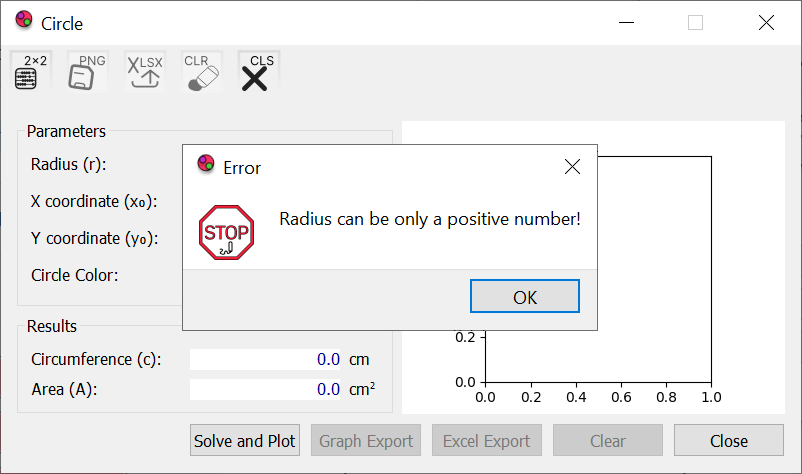
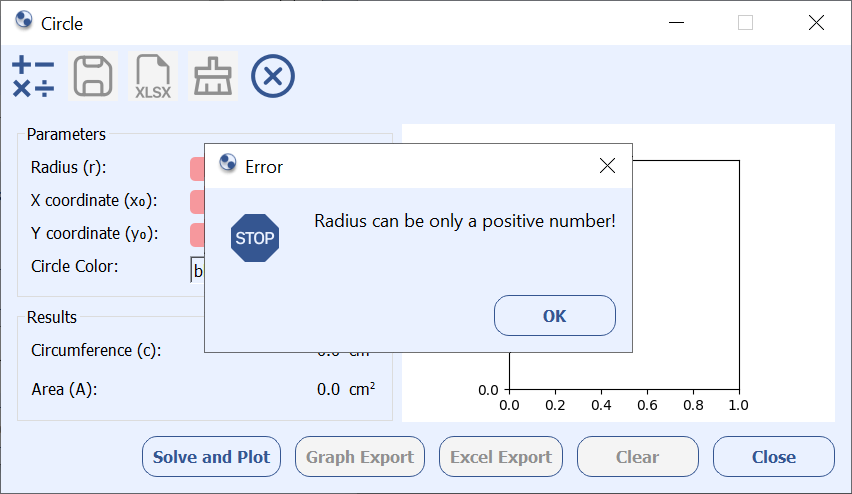
New Design

diff --git a/Ellipse.py b/Ellipse.py
@@ -87,7 +87,7 @@ class WindowEllipse(QWidget):
         toolbar.setIconSize(QtCore.QSize(50, 50))
 
         # Set the window size
-        self.setFixedSize(800, 458)
+        self.setFixedSize(850, 488)
 
         hbox1 = QHBoxLayout()
         
@@ -234,7 +234,6 @@ class WindowEllipse(QWidget):
         layout_res.addWidget(self.label_perimeter,0,0)
 
         self.label_res_perimeter = QLabel('0.0')
-        self.label_res_perimeter.setStyleSheet("background-color : white; color : darkblue")
         self.label_res_perimeter.setAlignment(QtCore.Qt.AlignRight)
         self.label_res_perimeter.setFixedWidth(150)
         layout_res.addWidget(self.label_res_perimeter,0,1)
@@ -252,7 +251,6 @@ class WindowEllipse(QWidget):
 
         self.label_res_area = QLabel('0.0')
         # self.label_res_area.setFont(QFont('Arial', 12))
-        self.label_res_area.setStyleSheet("background-color : white; color : darkblue")
         self.label_res_area.setAlignment(QtCore.Qt.AlignRight)
         self.label_res_area.setFixedWidth(150)
         layout_res.addWidget(self.label_res_area,1,1)
@@ -355,6 +353,12 @@ class WindowEllipse(QWidget):
             ellipse_plot.draw()
 
             self.calculate_ellipse()
+            self.clearAction.setEnabled(True)
+            self.buttonClear.setEnabled(True)
+            self.exportPictAction.setEnabled(True)
+            self.buttonPicture.setEnabled(True)
+            self.exportXlsxAction.setEnabled(True)
+            self.buttonExport.setEnabled(True)
 
     def calculate_ellipse(self):
 

diff --git a/Circle.py b/Circle.py
@@ -90,7 +90,7 @@ class WindowCircle(QWidget):
         toolbar.setIconSize(QtCore.QSize(50, 50))
 
         # Set the window size
-        self.setFixedSize(800, 428)
+        self.setFixedSize(850, 448)
 
         hbox1 = QHBoxLayout()
         
@@ -220,7 +220,6 @@ class WindowCircle(QWidget):
         layout_res.addWidget(self.label_perimeter,0,0)
 
         self.label_res_perimeter = QLabel('0.0')
-        self.label_res_perimeter.setStyleSheet("background-color : white; color : darkblue")
         self.label_res_perimeter.setAlignment(QtCore.Qt.AlignRight)
         self.label_res_perimeter.setFixedWidth(150)
         layout_res.addWidget(self.label_res_perimeter,0,1)
@@ -237,7 +236,6 @@ class WindowCircle(QWidget):
         layout_res.addWidget(self.label_area,1,0)
 
         self.label_res_area = QLabel('0.0')
-        self.label_res_area.setStyleSheet("background-color : white; color : darkblue")
         self.label_res_area.setAlignment(QtCore.Qt.AlignRight)
         self.label_res_area.setFixedWidth(150)
         layout_res.addWidget(self.label_res_area,1,1)

diff --git a/Sphere.py b/Sphere.py
@@ -79,7 +79,7 @@ class WindowSphere(QWidget):
         toolbar = QToolBar()
         toolbar.setIconSize(QtCore.QSize(50, 50))
 
-        self.setFixedSize(800, 458)
+        self.setFixedSize(850, 488)
 
         hbox1 = QHBoxLayout()
         
@@ -228,7 +228,6 @@ class WindowSphere(QWidget):
         layout_res.addWidget(self.label_volume,0,0)
 
         self.label_res_volume = QLabel('0.0')
-        self.label_res_volume.setStyleSheet("background-color : white; color : darkblue")
         self.label_res_volume.setAlignment(QtCore.Qt.AlignRight)
         self.label_res_volume.setFixedWidth(150)
         layout_res.addWidget(self.label_res_volume,0,1)
@@ -245,7 +244,6 @@ class WindowSphere(QWidget):
         layout_res.addWidget(self.label_surface,1,0)
 
         self.label_res_surface = QLabel('0.0')
-        self.label_res_surface.setStyleSheet("background-color : white; color : darkblue")
         self.label_res_surface.setAlignment(QtCore.Qt.AlignRight)
         self.label_res_surface.setFixedWidth(150)
         layout_res.addWidget(self.label_res_surface,1,1)

diff --git a/Square.py b/Square.py
@@ -91,7 +91,7 @@ class WindowSquare(QWidget):
         toolbar.setIconSize(QtCore.QSize(50, 50))
 
         # Set the window size
-        self.setFixedSize(800, 428)
+        self.setFixedSize(850, 448)
 
         hbox1 = QHBoxLayout()
         
@@ -223,7 +223,6 @@ class WindowSquare(QWidget):
         layout_res.addWidget(self.label_perimeter,0,0)
 
         self.label_res_perimeter = QLabel('0.0')
-        self.label_res_perimeter.setStyleSheet("background-color : white; color : darkblue")
         self.label_res_perimeter.setAlignment(QtCore.Qt.AlignRight)
         self.label_res_perimeter.setFixedWidth(150)
         self.label_res_perimeter.setFixedHeight(20)
@@ -241,7 +240,6 @@ class WindowSquare(QWidget):
         layout_res.addWidget(self.label_area,1,0)
 
         self.label_res_area = QLabel('0.0')
-        self.label_res_area.setStyleSheet("background-color : white; color : darkblue")
         self.label_res_area.setAlignment(QtCore.Qt.AlignRight)
         self.label_res_area.setFixedWidth(150)
         self.label_res_area.setFixedHeight(20)

diff --git a/MathApp.py b/MathApp.py
@@ -34,10 +34,6 @@ matplotlib.use('Qt5Agg')
 
 from matplotlib.backends.backend_qt5agg import FigureCanvasQTAgg
 from matplotlib.figure import Figure
-from matplotlib import pyplot as plt
-
-import numpy as np
-
 
 class MplCanvas(FigureCanvasQTAgg):
 
